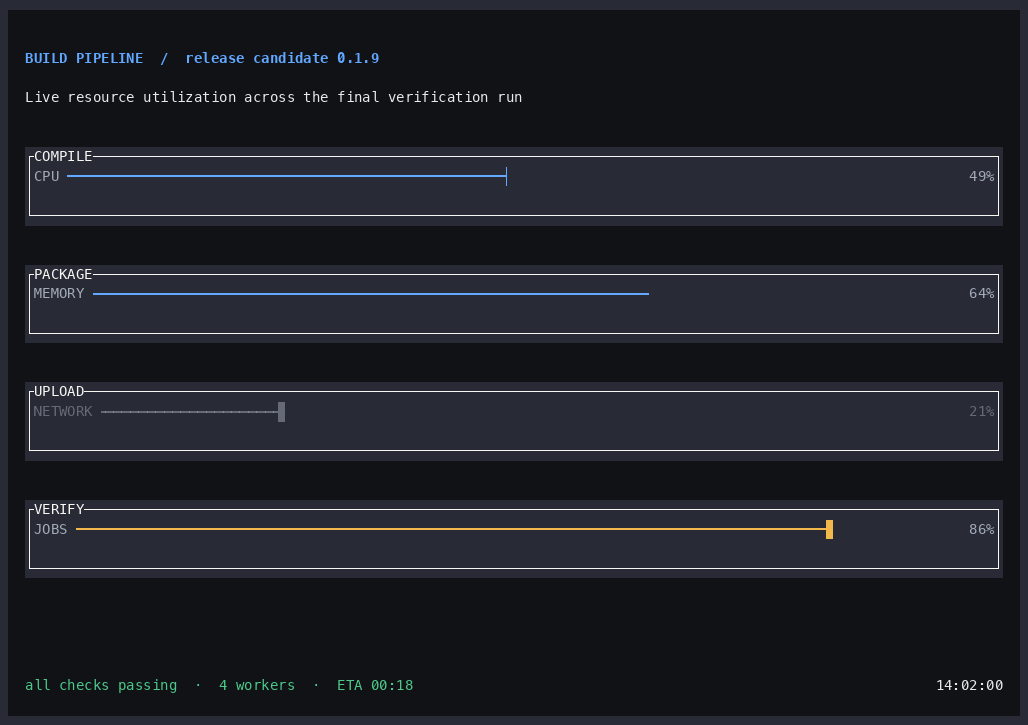
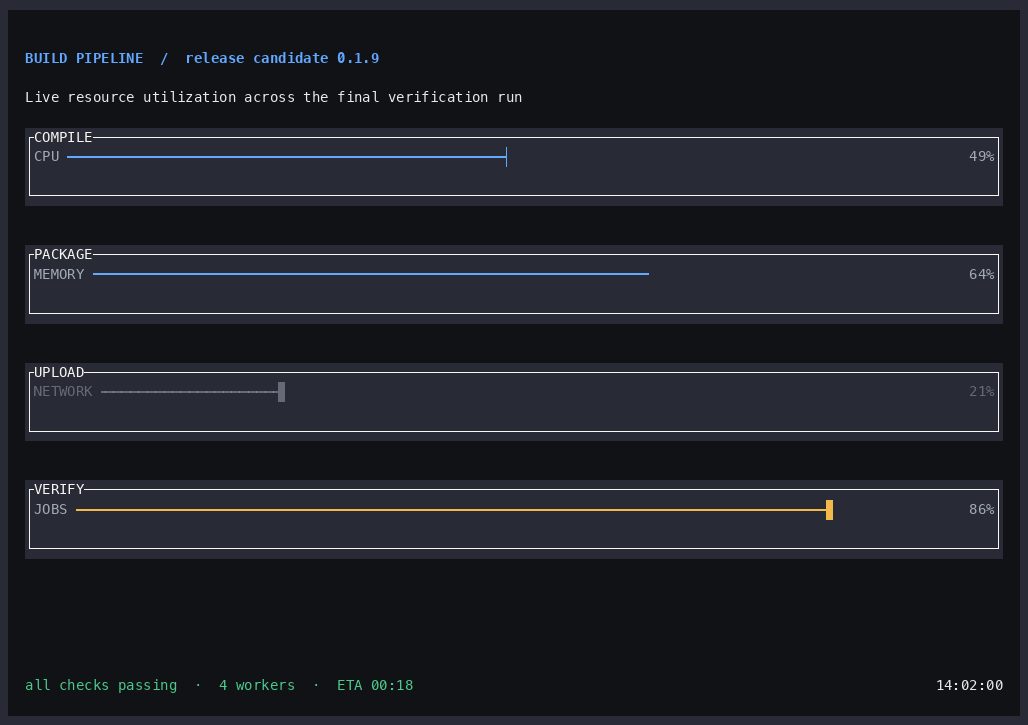
Add LineGauge size and color screenshots

Changed region(s): [[0.0, 0.1517, 0.9961, 0.5766], [0.0, 0.6069, 0.9961, 0.8193]]

diff --git a/examples/widget_preview.rs b/examples/widget_preview.rs
@@ -1544,6 +1544,7 @@ fn line_gauge_native(
     let memory = 0.61 + (f64::from(tick % 80) / 80.0) * 0.11;
     let network = 0.14 + (f64::from(tick % 50) / 50.0) * 0.16;
     let jobs = 0.76 + (f64::from(tick % 45) / 45.0) * 0.19;
+    let row_step = (area.height.saturating_sub(12) / 4).max(4);
     for (index, (title, label, ratio, state)) in [
         ("COMPILE", "CPU", cpu, WidgetState::Focused),
         ("PACKAGE", "MEMORY", memory, WidgetState::Normal),
@@ -1553,7 +1554,7 @@ fn line_gauge_native(
     .into_iter()
     .enumerate()
     {
-        let y = 7 + u16::try_from(index).unwrap_or(0) * 6;
+        let y = 6 + u16::try_from(index).unwrap_or(0) * row_step;
         LineGauge::new()
             .block(Block::bordered().title(title))
             .label(label)
@@ -1582,6 +1583,7 @@ fn line_gauge_native(
 
 #[cfg(feature = "line-gauge")]
 fn line_gauge_baseline(buffer: &mut Buffer, area: RatRect, _theme: &Theme, tick: u32) {
+    let row_step = (area.height.saturating_sub(12) / 4).max(4);
     for (index, (label, ratio)) in [
         ("CPU", 0.42 + f64::from(tick % 120) / 120.0 * 0.38),
         ("MEMORY", 0.61 + f64::from(tick % 80) / 80.0 * 0.11),
@@ -1591,7 +1593,7 @@ fn line_gauge_baseline(buffer: &mut Buffer, area: RatRect, _theme: &Theme, tick:
     .into_iter()
     .enumerate()
     {
-        let y = 7 + u16::try_from(index).unwrap_or(0) * 6;
+        let y = 6 + u16::try_from(index).unwrap_or(0) * row_step;
         ratatui::widgets::Widget::render(
             ratatui::widgets::Gauge::default()
                 .ratio(ratio)
